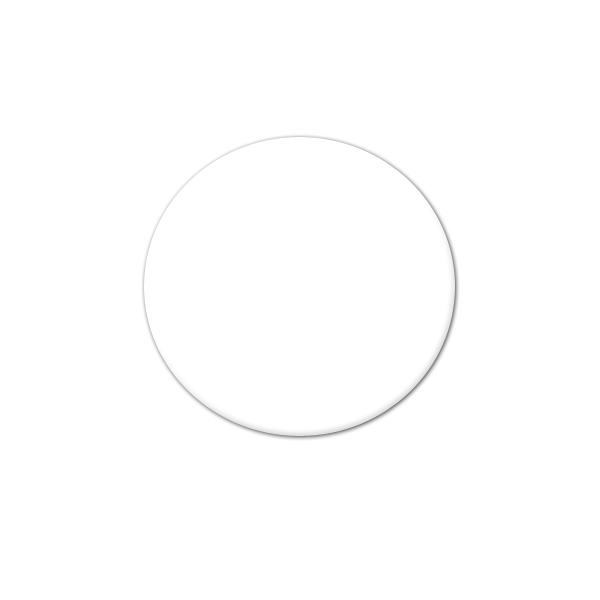
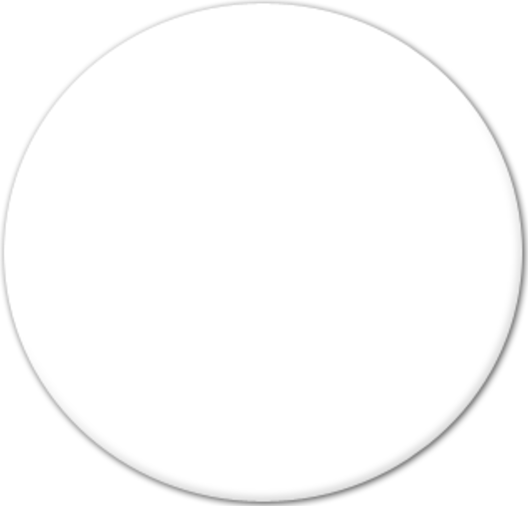
Agrande los circulos invisibles para visivilizar el turno del jugador

diff --git a/AYP1untref/combate-criaturas/PantallaDuelo.java b/AYP1untref/combate-criaturas/PantallaDuelo.java
@@ -38,10 +38,10 @@ public class PantallaDuelo extends World {
         criaturas[3] = new RicardoBazooka("Ricardo Bazooka", true);
 
         addGif();
-        addObject(criaturas[0], 150, 230);
-        addObject(criaturas[1], 380, 230);
-        addObject(criaturas[2], 650, 230);
-        addObject(criaturas[3], 850, 230);
+        addObject(criaturas[0], 150, 220);
+        addObject(criaturas[1], 380, 220);
+        addObject(criaturas[2], 650, 220);
+        addObject(criaturas[3], 850, 220);
     }
     
      public void addGif(){

diff --git a/AYP1untref/combate-criaturas/Criatura.java b/AYP1untref/combate-criaturas/Criatura.java
@@ -37,7 +37,7 @@ public abstract class Criatura extends Actor {
         this.equipo1 = equipo1;
 
         this.imagenOriginal = new MyGreenfootImage(getImage());
-        this.imagenOriginal.scale(130, 130);
+        this.imagenOriginal.scale(150, 150);
 
         this.uiInfoCriatura = new UIInfoCriatura(this);
         this.estadisticas = estadisticas;
